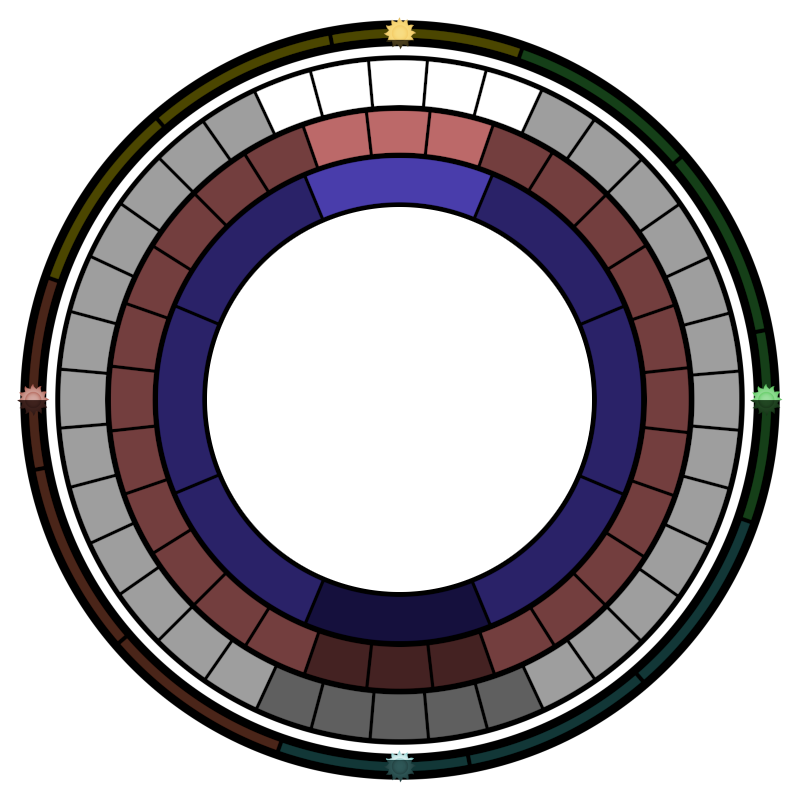
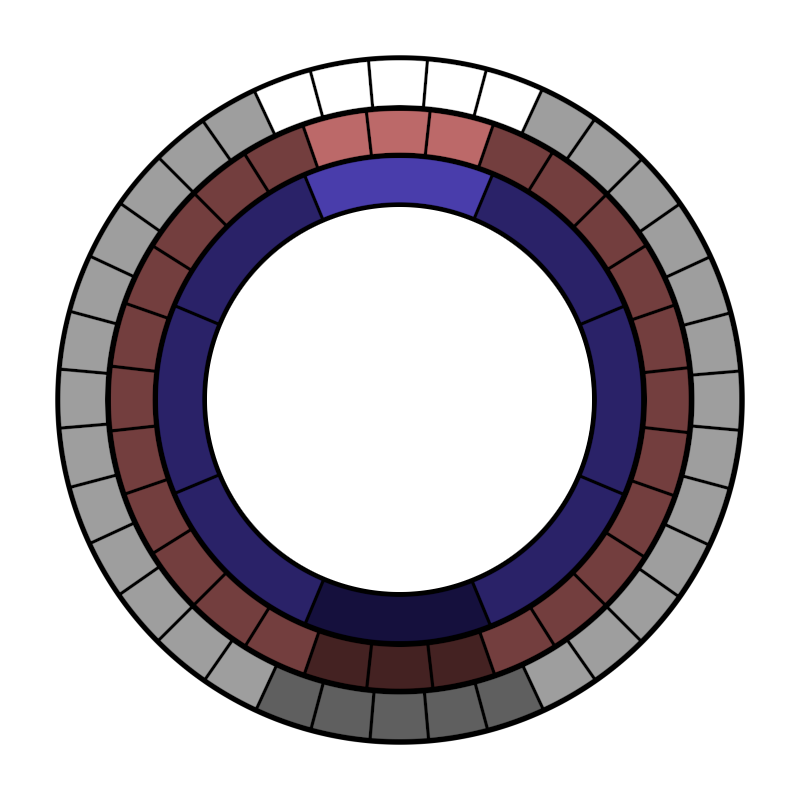
prepare for optional sun and stars

Changed region(s): [[0.0, 0.0, 1.0, 1.0]]

diff --git a/HtmlKrynnEphemeris.js b/HtmlKrynnEphemeris.js
@@ -61,6 +61,9 @@ function HephemerisData()
    this.m_skychart_starfield_intensity = 2;
    this.m_skychart_grid_intensity = 3;
    this.m_moon_phases_decoration_intensity = 0;
+
+   this.m_sun_chart_enabled = true;
+   this.m_sky_chart_enabled = true;
 }
 
 HephemerisData.prototype.getMoonPhasesDecorationIntensity = function()
@@ -343,6 +346,9 @@ function get_map_context()
 
 function draw_map(p_data)
 {
+   // p_data.m_sky_chart_enabled = false;
+   // p_data.m_sun_chart_enabled = false;
+   
    const background_color = "#000a1c";
    
    const ctx = get_map_context();
@@ -352,23 +358,25 @@ function draw_map(p_data)
    ctx.fillRect(0, 0, 800, 800);
    
    // sky chart map
-   draw_sky_chart(p_data, p_data.getSunPhase(), p_data.c_sunPhasePeriod, 800, p_data.m_latitude);
+   if(p_data.m_sky_chart_enabled)
+   {
+      draw_sky_chart(p_data, p_data.getSunPhase(), p_data.c_sunPhasePeriod, 800, p_data.m_latitude);
 
-   // color background
-   ctx.fillStyle = background_color;
-   ctx.fillRect(0, 0, 800, 200);
-   ctx.fillRect(0, 600, 800, 200);
-   ctx.fillRect(0, 0, 200, 800);
-   ctx.fillRect(600, 0, 200, 800);
+      // color background
+      ctx.fillStyle = background_color;
+      ctx.fillRect(0, 0, 800, 200);
+      ctx.fillRect(0, 600, 800, 200);
+      ctx.fillRect(0, 0, 200, 800);
+      ctx.fillRect(600, 0, 200, 800);
 
+      // horizon map
+      const horizon_img = document.getElementById("ID_imageHorizon");
+      ctx.drawImage(horizon_img, 0, 0);
 
-   // compass map
-   const horizon_img = document.getElementById("ID_imageHorizon");
-   ctx.drawImage(horizon_img, 0, 0);
-
-   // compass map
-   const compass_img = document.getElementById("ID_imageCompass");
-   ctx.drawImage(compass_img, 0, 0);
+      // compass map
+      const compass_img = document.getElementById("ID_imageCompass");
+      ctx.drawImage(compass_img, 0, 0);
+   }
 
    // background map
    const map_src = (p_data.m_is_taladas) ? "ID_imageMapTaladas" : "ID_imageMapClassic";
@@ -384,7 +392,13 @@ function draw_map(p_data)
       ctx.drawImage(moon_phases_decoration_img, 0, 0);
    }
 
-   draw_sun(p_data.m_is_taladas, p_data.getSunPhase());
+   if(p_data.m_sun_chart_enabled)
+   {
+      const compass_img = document.getElementById("ID_imageSunPhases");
+      ctx.drawImage(compass_img, 0, 0);
+      draw_sun(p_data.m_is_taladas, p_data.getSunPhase());
+   }
+   
    draw_moon_solinari(p_data.m_is_taladas, p_data.getSolinariPhase());
    draw_moon_lunitari(p_data.m_is_taladas, p_data.getLunitariPhase());
    draw_moon_nuitari(p_data.m_is_taladas, p_data.getNuitariPhase());

diff --git a/index.html b/index.html
@@ -828,6 +828,7 @@ div#ID_debugControls
 <div style="display : none;">
 <img id="ID_imageMapClassic" src="./moon_phases.classic.png" /><br />
 <img id="ID_imageMapTaladas" src="./moon_phases.taladas.png" /><br />
+<img id="ID_imageSunPhases" src="./sun_phases.png" /><br />
 <img id="ID_imageSolinari" src="./moon.solinari.png" /><br />
 <img id="ID_imageLunitari" src="./moon.lunitari.png" /><br />
 <img id="ID_imageNuitari" src="./moon.nuitari.png" /><br />
